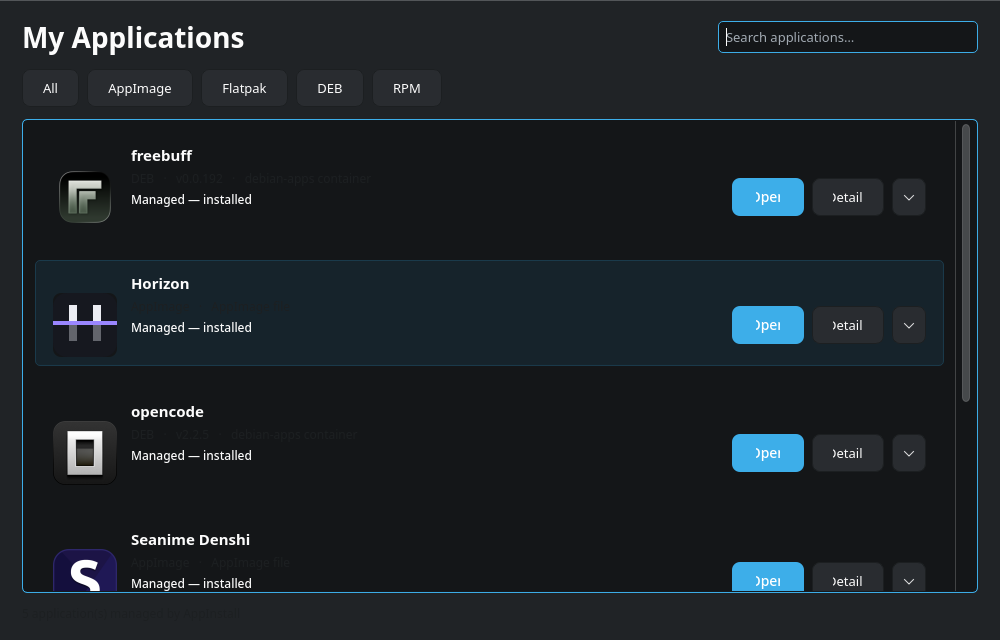
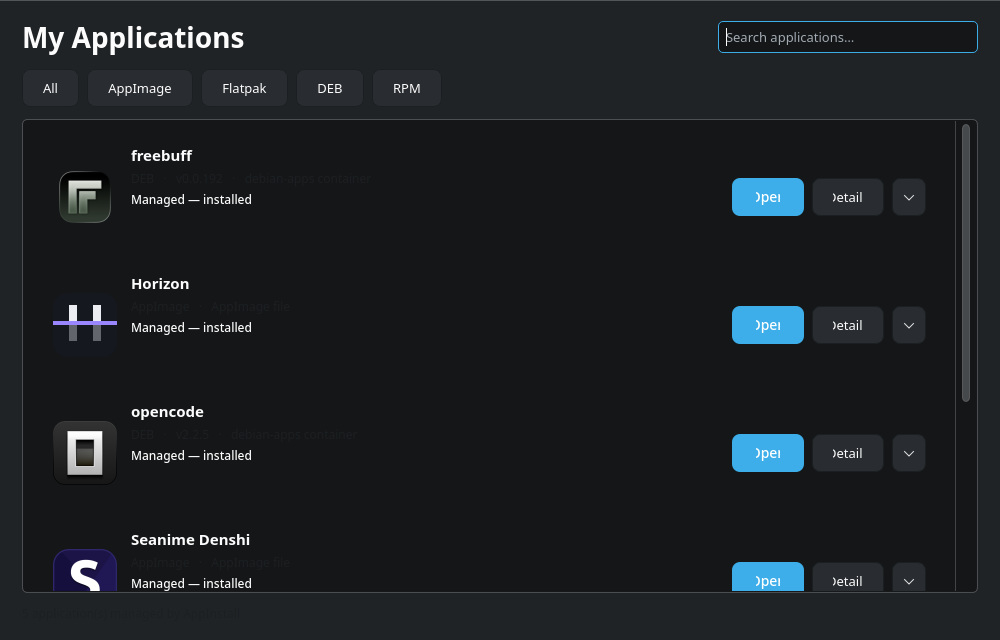
Final Phase 5 verification: live KDE Wayland screenshot + zero-skipped suite
- squashfs-tools now installed (authorized); unsquashfs/mksquashfs available
- Full suite: 110 tests, OK, 0 skipped (both passive-extraction tests pass)
- Live KDE Wayland manager screenshot added to evidence
- RESULTS.md updated with live-session capture note

Committed locally on 1.0-beta only; not pushed.

diff --git a/evidence/phase4/RESULTS.md b/evidence/phase4/RESULTS.md
@@ -11,5 +11,5 @@ No screenshots were claimed without being actually rendered.
 - **container_ui.py preview (forced dark)**: captured 19847 bytes
 - **manager list (light)**: captured 51536 bytes
 - **manager list (dark)**: captured 52440 bytes
-- **manager list (live KDE Wayland)**: captured 55176 bytes
+- **manager list (live KDE Wayland)**: captured 55176 bytes — actual desktop session, all 5 apps "Managed — installed"
 - **manager details dialog**: captured 33788 bytes
